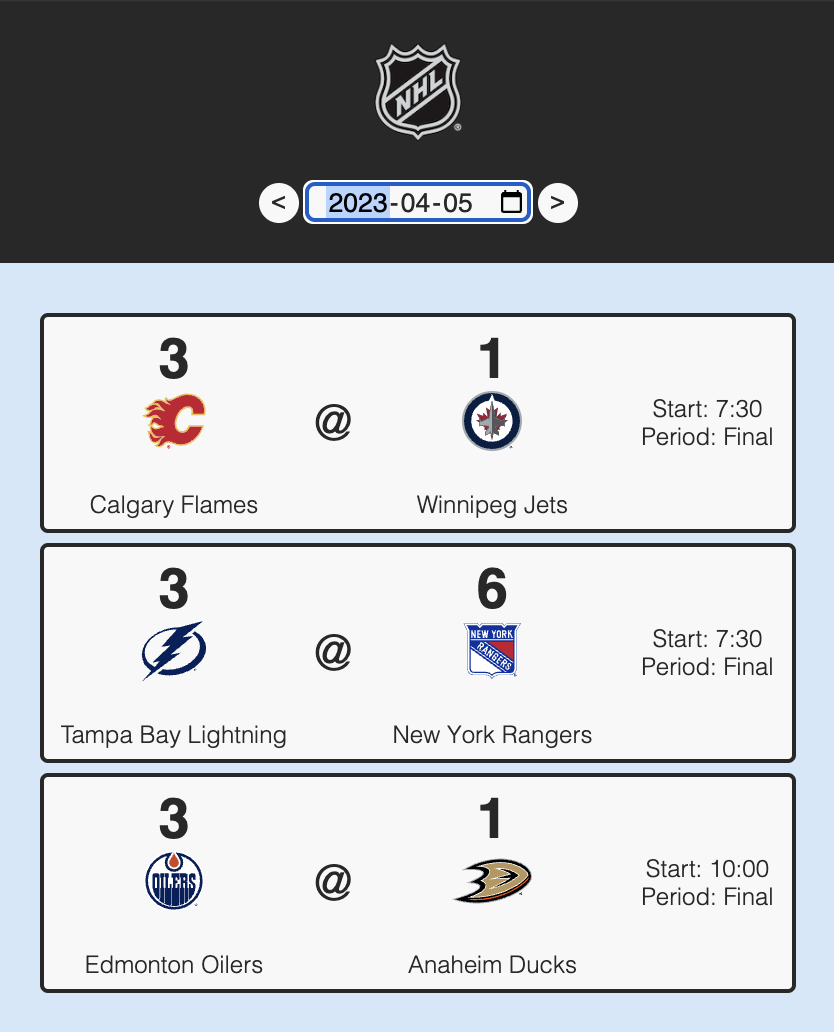
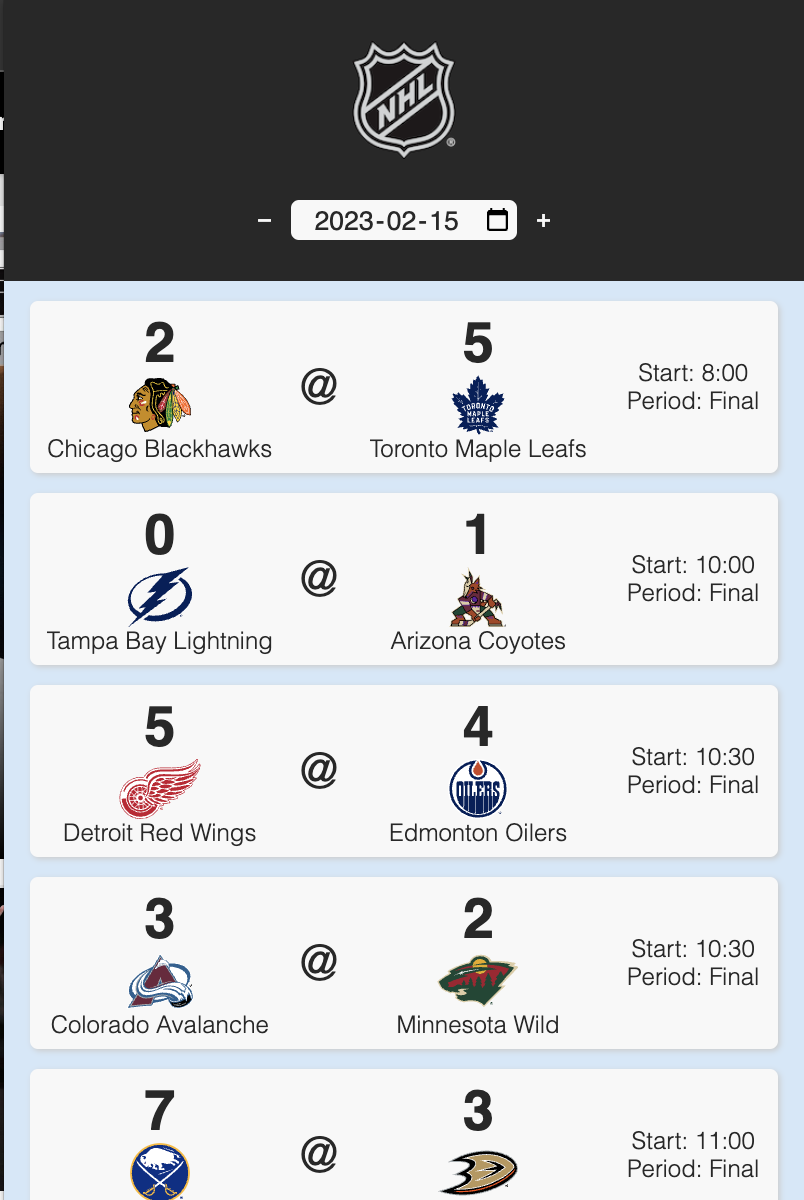
Updates styling with matching screenshots

diff --git a/style.css b/style.css
@@ -1,12 +1,8 @@
 :root {
   --blue: #d3e8f9;
   --grey: #282828;
+  --lightGrey: #cccccc;
   --white: #f8f8f8;
-}
-
-@font-face {
-  font-family: 'Handjet';
-  src: url('fonts/Handjet/Handjet-VariableFont_ELGR\,ELSH\,wght.ttf');
 }
 
 * {
@@ -34,9 +30,9 @@
   padding: 20px;
 }
 
-img {
+#titleBar img {
   margin-bottom: 20px;
-  height: 50px;
+  height: 60px;
   width: auto;
 }
 
@@ -47,7 +43,8 @@ img {
 .dayBtn:is(button) {
   height: 20px;
   width: 20px;
-  border-radius: 50%;
+  background-color: transparent;
+  color: var(--white);
 }
 
 .dayBtn:is(input) {
@@ -71,9 +68,15 @@ img {
 }
 
 #gameList {
+  display: flex;
+  flex-direction: column;
+  justify-content: center;
+  align-items: center;
+  gap: 10px;
   font-weight: 200;
   color: var(--grey);
-  padding: 20px;
+  padding: 10px;
+  min-height: 80px;
 }
 
 .gameElement {
@@ -81,11 +84,9 @@ img {
   justify-content: space-between;
   align-items: center;
   gap: 10px;
-
-  border: 2px solid var(--grey);
+  box-shadow: 1px 1px 3px var(--lightGrey);
   border-radius: 4px;
   padding: 5px;
-  margin-top: 5px;
   background-color: var(--white);
 }
 

diff --git a/index.html b/index.html
@@ -12,9 +12,9 @@
       <div id="titleBar">
         <img src="img/nhl.png" alt="NHL Logo" />
         <div id="changeDayContainer">
-          <button class="dayBtn" id="prevDayBtn"><</button>
+          <button class="dayBtn" id="prevDayBtn">&minus;</button>
           <input class="dayBtn" type="date" name="date" id="dateSelect" />
-          <button class="dayBtn" id="nextDayBtn">></button>
+          <button class="dayBtn" id="nextDayBtn">&plus;</button>
         </div>
       </div>
       <div id="gameList"></div>

diff --git a/README.md b/README.md
@@ -2,9 +2,8 @@
 
 #### A Chrome extension that shows concise NHL game data for including past games, upcoming game times, and current scores..
 
-<img src='/img/screenshots/extensionIcon.png' alt='Icon'>
-<img src='/img/screenshots/pastGames.png' alt='Past Games'>
-<img src='/img/screenshots/upcomingGames.png' alt='Upcoming Games'>
+![Past Game Data](./img/screenshots/pastGames.png)
+![Upcoming Game Data](./img/screenshots/upcomingGames.png)
 
 ## Download Link
 
